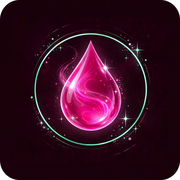
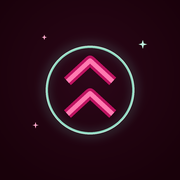
Publish Get Good Hub (GitHub Pages copy)

diff --git a/get-good/index.html b/get-good/index.html
@@ -997,6 +997,23 @@
   /* Guide contents lists belong to the page — they no longer stick as a second menu */
   .fra-toc{position:static}
 </style>
+<style>
+  /* ==== Splash — the hub's front door, one level above Home (not a view, never in the tap-path history) ==== */
+  .splash{position:fixed;inset:0;z-index:500;display:flex;flex-direction:column;align-items:center;justify-content:center;text-align:center;padding:calc(28px + env(safe-area-inset-top)) 24px calc(28px + env(safe-area-inset-bottom));background:radial-gradient(120% 90% at 50% 32%,#20000D 0%,#1C000B 55%,#19010A 100%);color:#fff}
+  .splash.splash-gone{display:none}
+  body.splash-locked{overflow:hidden}
+  .splash-badge{width:118px;height:118px;border-radius:28px;border:1.5px solid #A8EAD3;background:rgba(168,234,211,.07);box-shadow:0 0 24px rgba(168,234,211,.18);display:grid;place-items:center}
+  .splash-badge svg{width:60px;height:60px;filter:drop-shadow(0 0 7px rgba(230,60,140,.65))}
+  .splash h1{font:800 clamp(56px,10vw,86px)/1 "Barlow Condensed",sans-serif;letter-spacing:.05em;margin:36px 0 0;color:#fff}
+  .splash p{margin:14px 0 0;font-size:19px;line-height:1.45;color:rgba(255,255,255,.86);max-width:36ch}
+  .splash-enter{margin-top:48px;border:0;cursor:pointer;background:#fff;color:#20000D;font-weight:800;font-size:20px;padding:15px 60px;min-height:56px;border-radius:999px;box-shadow:0 14px 34px rgba(0,0,0,.28);transition:transform .15s ease}
+  .splash-enter:hover{transform:translateY(-1px)}
+  .splash-enter:focus-visible{outline:3px solid #fff;outline-offset:4px}
+  @keyframes splash-in{from{opacity:0;transform:translateY(10px)}to{opacity:1;transform:none}}
+  .splash-badge,.splash h1,.splash p,.splash-enter{animation:splash-in .45s ease both}
+  .splash h1{animation-delay:.05s}.splash p{animation-delay:.1s}.splash-enter{animation-delay:.15s}
+  @media(prefers-reduced-motion:reduce){.splash-badge,.splash h1,.splash p,.splash-enter{animation:none}}
+</style>
 <link rel="apple-touch-icon" href="apple-touch-icon.png?v=2" />
 <link rel="icon" type="image/png" sizes="192x192" href="icon-192.png?v=2" />
 <meta name="apple-mobile-web-app-capable" content="yes" />
@@ -1004,6 +1021,12 @@
 <meta name="mobile-web-app-capable" content="yes" />
 </head>
 <body>
+<div class="splash" id="hub-splash" role="region" aria-label="Get Good Hub">
+  <div class="splash-badge" aria-hidden="true"><svg viewBox="0 0 48 48" fill="none" stroke="url(#splash-chev-grad)" stroke-width="4.5" stroke-linecap="round" stroke-linejoin="round"><defs><linearGradient id="splash-chev-grad" x1="0" y1="0" x2="0" y2="1"><stop offset="0" stop-color="#F77FB4"/><stop offset="1" stop-color="#BD1260"/></linearGradient></defs><path d="M10 26 L24 14 L38 26"/><path d="M10 39 L24 27 L38 39"/></svg></div>
+  <h1>GET GOOD</h1>
+  <p>Training tracker, draft guide, set reviews &amp; puzzles.</p>
+  <button class="splash-enter" id="splash-enter" type="button">Enter</button>
+</div>
 <main class="app" id="mtg-hub-main">
   <nav class="hub-tabs" aria-label="Get Good Hub quick access">
     <button class="hub-tab active" type="button" data-home data-tabtarget="home" aria-current="page">⌂ Main</button>
@@ -2707,6 +2730,20 @@
   document.querySelectorAll('[data-back]').forEach(function(b){b.addEventListener('click',function(){goBack()})});
   document.querySelectorAll('[data-home]').forEach(function(b){b.addEventListener('click',function(){goHome()})});
   document.querySelectorAll('[data-close-dialog]').forEach(function(b){b.addEventListener('click',function(){document.getElementById(b.dataset.closeDialog).close()})});
+  /* Splash: the front door one level above Home. It is not a view and never
+     enters navStack, so Back from Home can never land on it, and the pinned
+     ⌂ Main (goHome) always goes straight to Home. Shown when the hub opens;
+     tapping Enter dismisses it for the rest of the visit. */
+  var splash=document.getElementById('hub-splash');
+  if(splash){
+    document.body.classList.add('splash-locked');
+    var splashEnter=document.getElementById('splash-enter');
+    if(splashEnter)splashEnter.addEventListener('click',function(){
+      splash.classList.add('splash-gone');
+      document.body.classList.remove('splash-locked');
+      splashEnter.blur();
+    });
+  }
 
   function manaValue(cost){
     var total=0,parts=String(cost||'').match(/\{([^}]+)\}/g)||[];
